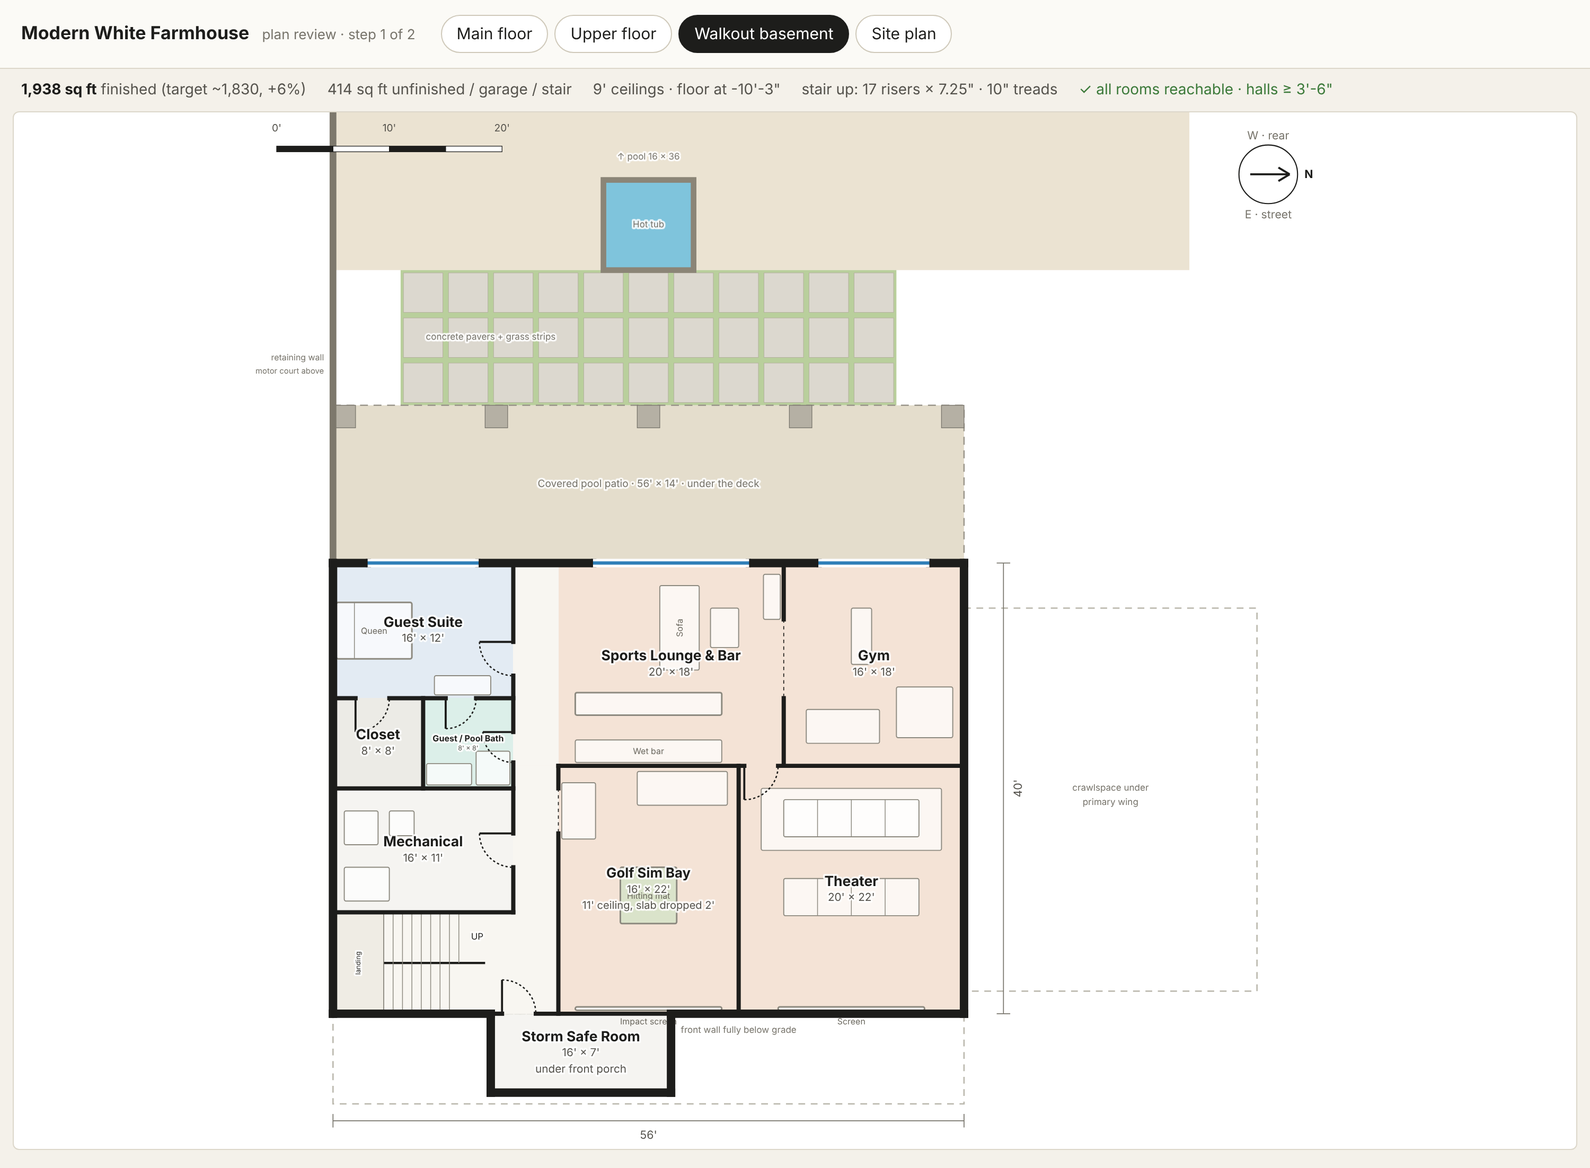
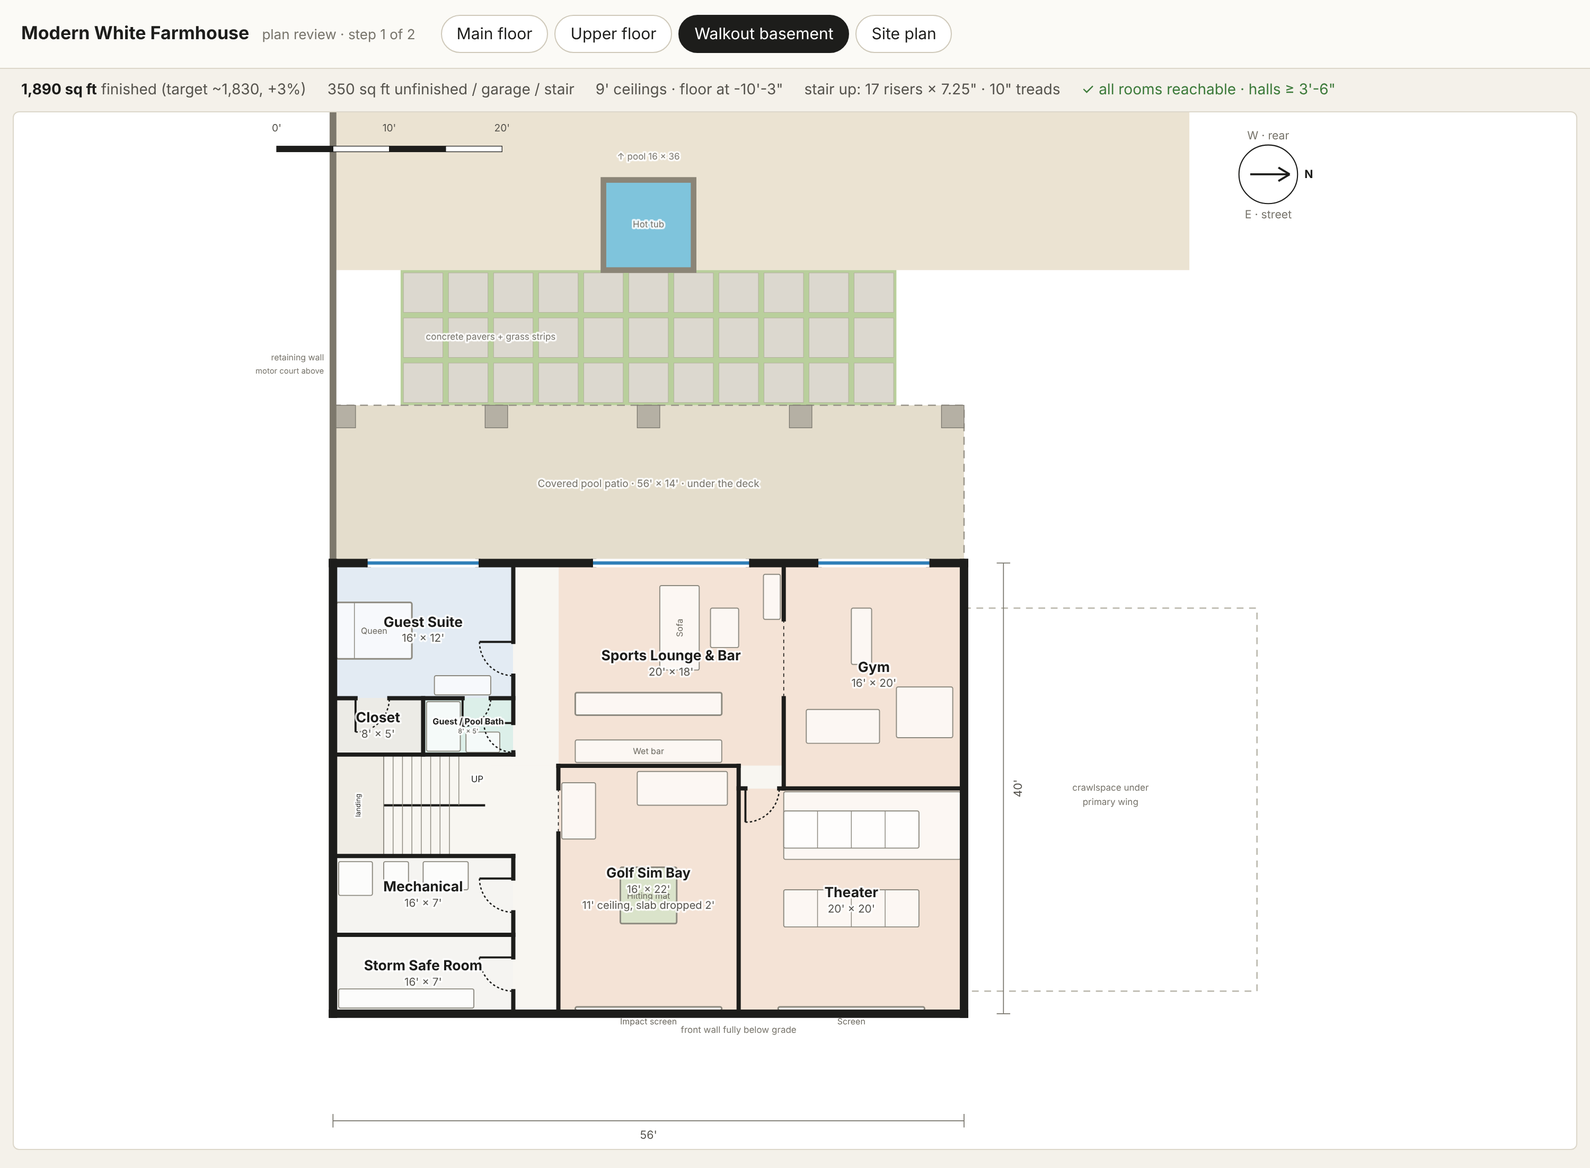
Revise layout: wing closet + entry hall, kitchen coffee station, office/stair swap
- Primary wing: remove coffee/sitting room; 4 ft entry hall, 14 x 14 walk-in
  closet with raised double-hang rods (46 in / 92 in), bath grows to 10 x 20,
  laundry 12 x 14.
- Kitchen: 6 ft built-in coffee station on the pantry wall; pantry door moves
  to the back hall.
- Office moves to the front-left corner with front and side windows, one desk
  facing each; stairs move to y 17-26 on all three floors.
- Upstairs: shared bath opens to bedroom 1 and the hall; bedroom 2 moves to
  the front-left corner.
- Basement: theater 20 x 20, storm safe room back inside next to mechanical.

Claude-Session: https://claude.ai/code/session_01XD9YHSFEoQqE2SWjbwMSnV

diff --git a/house-model/src/config/house.js b/house-model/src/config/house.js
@@ -57,7 +57,7 @@ export const build = {
 // Floor-to-floor heights are whole numbers of risers, so the floor elevations
 // below are derived from the riser count.
 export const stair = {
-  x: 0, y: 31, w: 14, d: 9,    // box: flights run along x, side by side in y
+  x: 0, y: 17, w: 14, d: 9,    // box: flights run along x, side by side in y
   landingAt: 'x0',             // mid landing against the left exterior wall
   landing: 4.5,                // landing depth (= flight width)
   riser: 7.25 / 12,            // 7-1/4"
@@ -87,7 +87,7 @@ export const floors = {
       { id: 'mudroom',  name: 'Mudroom',       use: 'service', x: 0,  y: 0,  w: 10, d: 11 },
       { id: 'pantry',   name: 'Walk-in Pantry', use: 'service', x: 10, y: 0, w: 8,  d: 11 },
       { id: 'halfBath', name: 'Half Bath',     use: 'bath',    x: 0,  y: 11, w: 6,  d: 6 },
-      { id: 'office',   name: 'Shared Office', use: 'work',    x: 0,  y: 17, w: 18, d: 14 },
+      { id: 'office',   name: 'Shared Office', use: 'work',    x: 0,  y: 26, w: 18, d: 14 },
       { ...STAIR_BOX },
       // — center: kitchen, vaulted living, foyer (centered on the 56' block) —
       { id: 'kitchen', name: 'Kitchen',     use: 'living', x: 18, y: 0,  w: 20, d: 15 },
@@ -102,11 +102,11 @@ export const floors = {
       { id: 'den',    name: 'TV Den',       use: 'living', x: 42, y: 26, w: 14, d: 14 },
       // — primary wing —
       { id: 'primaryBed',    name: 'Primary Bedroom', use: 'bed',     x: 56, y: 4,  w: 16, d: 16 },
-      { id: 'primaryBath',   name: 'Primary Bath',    use: 'bath',    x: 72, y: 4,  w: 10, d: 14 },
-      { id: 'primaryCloset', name: 'Primary Closet',  use: 'service', x: 72, y: 18, w: 10, d: 9 },
-      { id: 'laundry',       name: 'Laundry',         use: 'service', x: 72, y: 27, w: 10, d: 11 },
-      { id: 'coffee',        name: 'Coffee Bar / Sitting', use: 'living', x: 56, y: 24, w: 16, d: 14,
-        note: 'entry to the wing' },
+      { id: 'primaryBath',   name: 'Primary Bath',    use: 'bath',    x: 72, y: 4,  w: 10, d: 20 },
+      { id: 'primaryCloset', name: 'Primary Closet',  use: 'service', x: 68, y: 24, w: 14, d: 14,
+        note: 'double hang, raised rods' },
+      { id: 'laundry',       name: 'Laundry',         use: 'service', x: 56, y: 24, w: 12, d: 14 },
+      // the 4 ft wing entry hall (x 56–72, y 20–24) is the auto-generated hallway
       // — 3-car garage (slab 1 ft below main floor) —
       { id: 'garage', name: '3-Car Garage', use: 'garage', x: -52, y: -7, w: 36, d: 24,
         floorOffset: -1, finished: false },
@@ -114,7 +114,7 @@ export const floors = {
     openPlan: [
       ['kitchen', 'dining'], ['kitchen', 'living'], ['kitchen', '_hall'],
       ['dining', '_hall'], ['living', 'foyer'], ['foyer', '_hall'],
-      ['living', '_hall'], ['coffee', '_hall'], ['stair', '_hall'],
+      ['living', '_hall'], ['stair', '_hall'],
     ],
     // Extra walls where two open-plan spaces still need a solid stretch:
     // the stone fireplace wall between the living room and the side gallery.
@@ -130,22 +130,22 @@ export const floors = {
       { kind: 'window',      on: 'y', at: 4, from: 75, to: 79, sill: 5 },
       // front wall (y = 40 main block, y = 38 wing)
       { kind: 'entry',  on: 'y', at: 40, from: 25, to: 31 },
-      { kind: 'window', on: 'y', at: 40, from: 4,  to: 10 },                  // stair
+      { kind: 'window', on: 'y', at: 40, from: 4,  to: 10 },                  // office → porch
       { kind: 'window', on: 'y', at: 40, from: 39, to: 41, sill: 4 },         // gallery end
       { kind: 'window', on: 'y', at: 40, from: 45, to: 53 },                  // den → porch
-      { kind: 'window', on: 'y', at: 38, from: 59, to: 69 },
-      { kind: 'window', on: 'y', at: 38, from: 75, to: 79, sill: 4 },
+      { kind: 'window', on: 'y', at: 38, from: 59, to: 65 },                  // laundry
+      { kind: 'window', on: 'y', at: 38, from: 73, to: 77, sill: 6 },         // closet, high
       // side walls (x = 0 is covered by the breezeway from y = 1 to 17)
       { kind: 'door',   on: 'x', at: 0,  from: 3,  to: 6 },                   // mudroom ↔ breezeway
-      { kind: 'window', on: 'x', at: 0,  from: 21, to: 27 },                  // office
-      { kind: 'window', on: 'x', at: 0,  from: 33, to: 38, sill: 5 },         // stair landing
+      { kind: 'window', on: 'x', at: 0,  from: 19.5, to: 23.5, sill: 5 },     // stair landing
+      { kind: 'window', on: 'x', at: 0,  from: 29, to: 35 },                  // office side
       { kind: 'window', on: 'x', at: 82, from: 7,  to: 11, sill: 5 },
-      { kind: 'window', on: 'x', at: 82, from: 30, to: 34, sill: 4 },
+      { kind: 'window', on: 'x', at: 82, from: 16, to: 20, sill: 5 },
       // interior — left
       { kind: 'door',    on: 'y', at: 11, from: 6.5,  to: 9.5 },              // mudroom → back hall
-      { kind: 'door',    on: 'x', at: 18, from: 4,    to: 7, swing: -1 },     // pantry → kitchen
+      { kind: 'door',    on: 'y', at: 11, from: 13,   to: 16 },               // pantry → back hall
       { kind: 'door',    on: 'x', at: 6,  from: 12.5, to: 15, swing: -1 },    // half bath
-      { kind: 'door',    on: 'y', at: 31, from: 14.5, to: 17.5, swing: -1 },  // office → stair hall
+      { kind: 'door',    on: 'x', at: 18, from: 33,   to: 36, swing: -1 },    // office → foyer hall
       // interior — right
       { kind: 'door',    on: 'x', at: 34, from: 34,   to: 37 },               // coat closet
       { kind: 'door',    on: 'y', at: 20, from: 46,   to: 48.7 },             // powder
@@ -153,9 +153,9 @@ export const floors = {
       // interior — primary wing
       { kind: 'door', on: 'y', at: 20, from: 58, to: 61, swing: -1 },         // bedroom
       { kind: 'door', on: 'x', at: 72, from: 6,  to: 9 },                     // bed → bath
-      { kind: 'door', on: 'y', at: 18, from: 75, to: 78 },                    // bath → closet
-      { kind: 'door', on: 'y', at: 27, from: 75, to: 78 },                    // closet → laundry
-      { kind: 'door', on: 'x', at: 72, from: 30, to: 33 },                    // nook → laundry
+      { kind: 'door', on: 'y', at: 24, from: 75, to: 78 },                    // bath → closet
+      { kind: 'door', on: 'x', at: 68, from: 30, to: 33, swing: -1 },         // closet → laundry
+      { kind: 'door', on: 'y', at: 24, from: 59, to: 62 },                    // hall → laundry
       // garage — overhead doors face the rear motor court
       { kind: 'garage', on: 'y', at: -7, from: -50, to: -41 },
       { kind: 'garage', on: 'y', at: -7, from: -39, to: -30 },
@@ -168,7 +168,8 @@ export const floors = {
     furniture: [
       // kitchen
       { type: 'counter', x: 20,   y: 0.3, w: 16,  d: 2,   h: 3 },             // under pass-through
-      { type: 'tall',    x: 18.3, y: 8,   w: 2.4, d: 6,   h: 7.5 },           // fridge + ovens
+      { type: 'counter', x: 18.3, y: 1,   w: 2,   d: 6,   h: 3, label: 'Coffee station' }, // 6 ft built-in, pantry wall
+      { type: 'tall',    x: 18.3, y: 7.5, w: 2.4, d: 3.5, h: 7.5 },           // fridge
       { type: 'island',  x: 22,   y: 7,   w: 12,  d: 4,   h: 3, label: 'Island' },
       // dining
       { type: 'table', x: 42.5, y: 5, w: 9, d: 3.5, h: 2.5, chairs: 8, label: 'Table' },
@@ -180,12 +181,12 @@ export const floors = {
       { type: 'chair', x: 31,   y: 27, w: 3,   d: 3, h: 2.7 },
       // foyer
       { type: 'table', x: 22.4, y: 33, w: 1.4, d: 5, h: 2.8 },
-      // office — two desks facing the side window
-      { type: 'desk',  x: 0.5, y: 19.5, w: 2.5, d: 5.5, h: 2.5 },
-      { type: 'desk',  x: 0.5, y: 25,   w: 2.5, d: 5.5, h: 2.5 },
-      { type: 'chair', x: 3.5, y: 21,   w: 2,   d: 2,   h: 3 },
-      { type: 'chair', x: 3.5, y: 27,   w: 2,   d: 2,   h: 3 },
-      { type: 'tall',  x: 8,   y: 17.3, w: 9.5, d: 1.2, h: 7 },
+      // office — each desk faces its own window (front wall and left side wall)
+      { type: 'desk',  x: 4,   y: 37.2, w: 6,   d: 2.5, h: 2.5 },
+      { type: 'chair', x: 6,   y: 34.6, w: 2,   d: 2,   h: 3 },
+      { type: 'desk',  x: 0.5, y: 29,   w: 2.5, d: 6,   h: 2.5 },
+      { type: 'chair', x: 3.4, y: 31,   w: 2,   d: 2,   h: 3 },
+      { type: 'tall',  x: 7,   y: 26.3, w: 9,   d: 1.2, h: 7 },
       // mudroom / pantry / half bath
       { type: 'tall',    x: 8.4,  y: 0.5,  w: 1.5, d: 9.5, h: 7 },             // lockers
       { type: 'bench',   x: 0.3,  y: 6.5,  w: 1.5, d: 3.5, h: 1.5 },
@@ -209,15 +210,16 @@ export const floors = {
       { type: 'chair',   x: 68,   y: 6,    w: 3,   d: 3,   h: 2.7 },
       { type: 'counter', x: 74,   y: 4.3,  w: 7,   d: 2,   h: 3 },             // double vanity
       { type: 'tub',     x: 78.8, y: 8.5,  w: 2.9, d: 5.5, h: 2 },
-      { type: 'shower',  x: 72.3, y: 13,   w: 4.5, d: 4.7, h: 7.5 },
-      { type: 'toilet',  x: 79.5, y: 15.3, w: 2.3, d: 1.7, h: 1.4 },
-      { type: 'island',  x: 75.5, y: 20.5, w: 3,   d: 4,   h: 3 },
-      { type: 'tall',    x: 80,   y: 18.3, w: 1.7, d: 8.4, h: 7 },
-      { type: 'appliance', x: 74, y: 35.2, w: 5.4, d: 2.5, h: 3.3 },           // washer / dryer
-      { type: 'counter',   x: 79.7, y: 28, w: 2,   d: 6,   h: 3 },
-      { type: 'counter', x: 56.3, y: 28, w: 2,   d: 8,   h: 3, label: 'Coffee bar' },
-      { type: 'chair',   x: 63,   y: 31, w: 3,   d: 3,   h: 2.7 },
-      { type: 'chair',   x: 67.5, y: 31, w: 3,   d: 3,   h: 2.7 },
+      { type: 'shower',  x: 72.3, y: 16,   w: 5,   d: 5,   h: 7.5 },
+      { type: 'toilet',  x: 79.5, y: 21.6, w: 2.3, d: 1.7, h: 1.4 },
+      { type: 'counter', x: 79.9, y: 15,   w: 1.8, d: 4,   h: 2.5 },           // makeup vanity
+      // primary closet — double hanging on both long walls, rods raised for tall owners
+      { type: 'hanging', x: 68.3, y: 26,   w: 2, d: 11.7, h: 9, rods: [46 / 12, 92 / 12], label: 'Double hang' },
+      { type: 'hanging', x: 79.7, y: 26,   w: 2, d: 11.7, h: 9, rods: [46 / 12, 92 / 12], label: 'Double hang' },
+      { type: 'island',  x: 73.5, y: 29,   w: 3, d: 5,    h: 3 },
+      { type: 'appliance', x: 57,   y: 35.2, w: 5.4, d: 2.5, h: 3.3 },         // washer / dryer
+      { type: 'counter',   x: 62.8, y: 35.7, w: 4.8, d: 2,   h: 3 },           // sink + folding
+      { type: 'tall',      x: 56.3, y: 26,   w: 1.7, d: 7,   h: 7 },
       // garage — three cars for scale
       { type: 'car', x: -48.5, y: -3, w: 6, d: 16, h: 5 },
       { type: 'car', x: -37.5, y: -3, w: 6, d: 16, h: 5 },
@@ -234,9 +236,10 @@ export const floors = {
     rooms: [
       // — left: two kids' bedrooms sharing a Jack & Jill bath —
       { id: 'bed1',   name: 'Bedroom 1', use: 'bed',  x: 0,  y: 0,  w: 18, d: 12, note: 'incl. closet' },
-      { id: 'jjBath', name: 'Jack & Jill Bath', use: 'bath', x: 0, y: 12, w: 12, d: 6 },
-      { id: 'linen',  name: 'Linen',     use: 'service', x: 12, y: 12, w: 6, d: 6 },
-      { id: 'bed2',   name: 'Bedroom 2', use: 'bed',  x: 0,  y: 18, w: 18, d: 13, note: 'incl. closet' },
+      // the stairs now sit between bedrooms 1 and 2, so the shared bath opens
+      // to bedroom 1 and to the hall (no longer a true Jack & Jill)
+      { id: 'jjBath', name: 'Shared Bath', use: 'bath', x: 0, y: 12, w: 14, d: 5 },
+      { id: 'bed2',   name: 'Bedroom 2', use: 'bed',  x: 0,  y: 26, w: 18, d: 14, note: 'incl. closet' },
       { ...STAIR_BOX, finished: false },
       // — center: loft at the rear, open to the living room and foyer below —
       { id: 'loft',       name: "Kids' Loft",          use: 'living', x: 18, y: 0,  w: 20, d: 15 },
@@ -260,10 +263,9 @@ export const floors = {
       { kind: 'railing', on: 'x', at: 34, from: 31, to: 40 },
       // doors — left
       { kind: 'door', on: 'x', at: 18, from: 7,  to: 10, swing: -1 },        // bed 1
-      { kind: 'door', on: 'y', at: 12, from: 3,  to: 5.5, swing: -1 },       // bed 1 → J&J
-      { kind: 'door', on: 'y', at: 18, from: 3,  to: 5.5 },                  // bed 2 → J&J
-      { kind: 'door', on: 'x', at: 18, from: 13, to: 15, swing: -1 },        // linen
-      { kind: 'door', on: 'x', at: 18, from: 26, to: 29, swing: -1 },        // bed 2
+      { kind: 'door', on: 'y', at: 12, from: 3,  to: 5.5, swing: -1 },       // bed 1 → shared bath
+      { kind: 'door', on: 'x', at: 14, from: 12.3, to: 14.8 },               // hall → shared bath
+      { kind: 'door', on: 'x', at: 18, from: 27, to: 30, swing: -1 },        // bed 2
       // doors — right
       { kind: 'door', on: 'x', at: 42, from: 8,    to: 11 },                 // bed 3
       { kind: 'door', on: 'x', at: 42, from: 15,   to: 17.7 },               // bath 2
@@ -276,28 +278,30 @@ export const floors = {
       { kind: 'window', on: 'y', at: 0, from: 22, to: 34, sill: 1.5 },        // rear gable glass
       { kind: 'window', on: 'y', at: 0, from: 46, to: 52 },
       // windows — front
-      { kind: 'window', on: 'y', at: 40, from: 4,  to: 10 },                  // stair
+      { kind: 'window', on: 'y', at: 40, from: 4,  to: 10 },                  // bedroom 2
       { kind: 'window', on: 'y', at: 40, from: 24, to: 32, sill: 1.5 },       // front gable glass
       { kind: 'window', on: 'y', at: 40, from: 47, to: 51, sill: 4 },
       // windows — sides
       { kind: 'window', on: 'x', at: 0,  from: 3,  to: 8 },
       { kind: 'window', on: 'x', at: 0,  from: 14, to: 16, sill: 4.5 },
-      { kind: 'window', on: 'x', at: 0,  from: 22, to: 27 },
+      { kind: 'window', on: 'x', at: 0,  from: 19.5, to: 23.5, sill: 5 },   // stair
+      { kind: 'window', on: 'x', at: 0,  from: 30, to: 35 },
       { kind: 'window', on: 'x', at: 56, from: 4,  to: 9 },
     ],
     furniture: [
       { type: 'bed',  x: 0.3,  y: 3.5,  w: 6.7, d: 5,   h: 2.2, label: 'Queen' },
       { type: 'desk', x: 9,    y: 0.3,  w: 5,   d: 2,   h: 2.5 },
       { type: 'tall', x: 15.8, y: 0.3,  w: 1.9, d: 6,   h: 7 },
-      { type: 'bed',  x: 0.3,  y: 22.5, w: 6.7, d: 5,   h: 2.2, label: 'Queen' },
-      { type: 'desk', x: 6,    y: 28.7, w: 5,   d: 2,   h: 2.5 },
-      { type: 'tall', x: 15.8, y: 18.5, w: 1.9, d: 6,   h: 7 },
+      { type: 'bed',  x: 0.3,  y: 30,   w: 6.7, d: 5,   h: 2.2, label: 'Queen' },
+      { type: 'desk', x: 11,   y: 37.7, w: 5,   d: 2,   h: 2.5 },
+      { type: 'tall', x: 15.8, y: 31,   w: 1.9, d: 6,   h: 7 },
       { type: 'bed',  x: 49,   y: 3,    w: 6.7, d: 5,   h: 2.2, label: 'Queen' },
       { type: 'desk', x: 43,   y: 0.3,  w: 5,   d: 2,   h: 2.5 },
       { type: 'sofa',  x: 24, y: 9.5, w: 8, d: 3.2, h: 2.8, faces: '-y', label: 'Sofa' },
       { type: 'table', x: 26, y: 5,   w: 4, d: 2.5, h: 1.4 },
-      { type: 'tub',     x: 0.3,  y: 12.3, w: 5.2, d: 2.7, h: 1.8 },
-      { type: 'counter', x: 6,    y: 15.8, w: 5.5, d: 1.9, h: 3 },
+      { type: 'tub',     x: 0.3,  y: 12.2, w: 2.6, d: 4.6, h: 1.8 },
+      { type: 'counter', x: 6,    y: 14.8, w: 5,   d: 1.9, h: 3 },
+      { type: 'toilet',  x: 11.5, y: 12.3, w: 1.7, d: 2.3, h: 1.4 },
       { type: 'tub',     x: 46.5, y: 18,   w: 5.2, d: 2.7, h: 1.8 },
       { type: 'counter', x: 45.5, y: 13.3, w: 5,   d: 1.9, h: 3 },
       { type: 'appliance', x: 44.5, y: 24.3, w: 5, d: 2.5, h: 3.3 },
@@ -313,18 +317,16 @@ export const floors = {
     rooms: [
       // rear (y = 0) walks out to the covered patio; front (y = 40) is below grade
       { id: 'guest',      name: 'Guest Suite',  use: 'bed',     x: 0,  y: 0,  w: 16, d: 12 },
-      { id: 'guestCloset',name: 'Closet',       use: 'service', x: 0,  y: 12, w: 8,  d: 8 },
-      { id: 'guestBath',  name: 'Guest / Pool Bath', use: 'bath', x: 8, y: 12, w: 8,  d: 8 },
-      { id: 'mechanical', name: 'Mechanical',   use: 'service', x: 0,  y: 20, w: 16, d: 11, finished: false },
+      { id: 'guestCloset',name: 'Closet',       use: 'service', x: 0,  y: 12, w: 8,  d: 5 },
+      { id: 'guestBath',  name: 'Guest / Pool Bath', use: 'bath', x: 8, y: 12, w: 8,  d: 5 },
+      { id: 'mechanical', name: 'Mechanical',   use: 'service', x: 0,  y: 26, w: 16, d: 7, finished: false },
+      { id: 'safe',       name: 'Storm Safe Room', use: 'service', x: 0, y: 33, w: 16, d: 7, finished: false },
       { ...STAIR_BOX, finished: false },
       { id: 'lounge',  name: 'Sports Lounge & Bar', use: 'rec', x: 20, y: 0,  w: 20, d: 18 },
-      { id: 'gym',     name: 'Gym',            use: 'rec',  x: 40, y: 0,  w: 16, d: 18 },
+      { id: 'gym',     name: 'Gym',            use: 'rec',  x: 40, y: 0,  w: 16, d: 20 },
       { id: 'sim',     name: 'Golf Sim Bay',   use: 'rec',  x: 20, y: 18, w: 16, d: 22,
         floorOffset: -2, ceiling: 11, note: "11' ceiling, slab dropped 2'" },
-      { id: 'theater', name: 'Theater',        use: 'rec',  x: 36, y: 18, w: 20, d: 22 },
-      // storm safe room: concrete room under the front porch slab
-      { id: 'safe', name: 'Storm Safe Room', use: 'service', x: 14, y: 40, w: 16, d: 7,
-        finished: false, note: 'under front porch' },
+      { id: 'theater', name: 'Theater',        use: 'rec',  x: 36, y: 20, w: 20, d: 20 },
     ],
     openPlan: [['lounge', '_hall'], ['stair', '_hall']],
     openings: [
@@ -334,22 +336,22 @@ export const floors = {
       { kind: 'glassdoor', on: 'y', at: 0, from: 43, to: 53 },
       // hall doors
       { kind: 'door',    on: 'x', at: 16, from: 7,    to: 10, swing: -1 },    // guest suite
-      { kind: 'door',    on: 'x', at: 16, from: 15,   to: 17.7, swing: -1 },  // guest / pool bath
-      { kind: 'door',    on: 'x', at: 16, from: 24,   to: 27, swing: -1 },    // mechanical
+      { kind: 'door',    on: 'x', at: 16, from: 14.2, to: 16.8, swing: -1 },  // guest / pool bath
+      { kind: 'door',    on: 'x', at: 16, from: 28,   to: 31, swing: -1 },    // mechanical
+      { kind: 'door',    on: 'x', at: 16, from: 35,   to: 38, swing: -1 },    // safe room (steel)
       { kind: 'opening', on: 'x', at: 20, from: 20,   to: 24 },               // sim bay (steps down)
-      { kind: 'door',    on: 'y', at: 40, from: 15,   to: 18, swing: -1 },    // safe room (steel)
       // suite and lounge doors
       { kind: 'door',    on: 'y', at: 12, from: 2,    to: 5 },                // guest closet
-      { kind: 'door',    on: 'y', at: 12, from: 10,   to: 12.7 },             // guest → bath
+      { kind: 'door',    on: 'y', at: 12, from: 11.5, to: 14 },               // guest → bath
       { kind: 'opening', on: 'x', at: 40, from: 5,    to: 12 },               // gym
-      { kind: 'door',    on: 'y', at: 18, from: 36.5, to: 39.5 },             // theater
+      { kind: 'door',    on: 'y', at: 20, from: 36.6, to: 39.6 },             // theater (from lounge alcove)
     ],
     furniture: [
       // theater — screen on the buried front wall, two rows of four recliners
       { type: 'screen',   x: 39.5, y: 39.4, w: 13, d: 0.3, h: 7.3, elev: 1.5, label: 'Screen' },
-      { type: 'recliner', x: 40,   y: 28,   w: 12, d: 3.3, h: 3.3, seats: 4, faces: '+y' },
-      { type: 'platform', x: 38,   y: 20,   w: 16, d: 5.5, h: 1 },
-      { type: 'recliner', x: 40,   y: 21,   w: 12, d: 3.3, h: 3.3, seats: 4, faces: '+y', elev: 1 },
+      { type: 'recliner', x: 40,   y: 29,   w: 12, d: 3.3, h: 3.3, seats: 4, faces: '+y' },
+      { type: 'platform', x: 40,   y: 20.3, w: 15.7, d: 6, h: 1 },
+      { type: 'recliner', x: 40,   y: 22,   w: 12, d: 3.3, h: 3.3, seats: 4, faces: '+y', elev: 1 },
       // golf sim — hitting toward the front wall
       { type: 'screen', x: 21.5, y: 39.4, w: 13, d: 0.3, h: 9.5, elev: 0.5, label: 'Impact screen' },
       { type: 'mat',    x: 25.5, y: 27,   w: 5,  d: 5,   h: 0.15, label: 'Hitting mat' },
@@ -368,12 +370,13 @@ export const floors = {
       // guest suite
       { type: 'bed',     x: 0.3, y: 3.5,  w: 6.7, d: 5,   h: 2.2, label: 'Queen' },
       { type: 'dresser', x: 9,   y: 10,   w: 5,   d: 1.7, h: 3 },
-      { type: 'shower',  x: 12.7, y: 16.7, w: 3,  d: 3,   h: 7.5 },
-      { type: 'counter', x: 8.3, y: 17.8, w: 4,   d: 1.9, h: 3 },
+      { type: 'shower',  x: 8.3,  y: 12.3, w: 3,   d: 4.4, h: 7.5 },
+      { type: 'counter', x: 11.8, y: 15,   w: 3,   d: 1.8, h: 3 },
       // mechanical
-      { type: 'appliance', x: 1, y: 22, w: 3,   d: 3,   h: 6 },
-      { type: 'appliance', x: 5, y: 22, w: 2.2, d: 2.2, h: 5.5 },
-      { type: 'appliance', x: 1, y: 27, w: 4,   d: 3,   h: 5 },
+      { type: 'appliance', x: 0.5, y: 26.5, w: 3,   d: 3,   h: 6 },
+      { type: 'appliance', x: 4.5, y: 26.5, w: 2.2, d: 2.2, h: 5.5 },
+      { type: 'appliance', x: 8,   y: 26.5, w: 4,   d: 2.5, h: 5 },
+      { type: 'bench',     x: 0.5, y: 37.8, w: 12,  d: 1.7, h: 1.5 },          // safe-room bench
     ],
   },
 };

diff --git a/house-model/src/plan/plan2d.js b/house-model/src/plan/plan2d.js
@@ -126,7 +126,7 @@ function drawStair(r, levelKey) {
 function drawFurniture(list = [], rooms = []) {
   let s = '';
   for (const f of list) {
-    const strong = ['screen', 'mat', 'island', 'bed', 'car'].includes(f.type);
+    const strong = ['screen', 'mat', 'island', 'bed', 'car', 'hanging'].includes(f.type);
     s += rect(f.x, f.y, f.w, f.d,
       `fill="${f.type === 'mat' ? '#cfe3c4' : '#ffffff'}" fill-opacity="0.7" stroke="${FURN}" stroke-width="${strong ? 0.14 : 0.09}" rx="0.15"`);
     if (f.type === 'bed') {
@@ -140,6 +140,12 @@ function drawFurniture(list = [], rooms = []) {
       } else {
         const yy = Math.abs(f.y - r.y) < Math.abs(r.y + r.d - f.y - f.d) ? f.y + 1.6 : f.y + f.d - 1.6;
         s += line(f.x, yy, f.x + f.w, yy, st);
+      }
+    }
+    if (f.rods) {
+      const st = `stroke="${FURN}" stroke-width="0.06" stroke-dasharray="0.3 0.2"`;
+      for (const k of [0.35, 0.65]) {
+        s += f.d > f.w ? line(f.x + f.w * k, f.y, f.x + f.w * k, f.y + f.d, st) : line(f.x, f.y + f.d * k, f.x + f.w, f.y + f.d * k, st);
       }
     }
     if (f.seats) {
@@ -338,7 +344,6 @@ export function floorPlanSVG(key) {
     s += note(36, 41.5, 'front wall fully below grade', 0.8);
     s += note(69, 20, 'crawlspace under', 0.8);
     s += note(69, 21.3, 'primary wing', 0.8);
-    s += rect(porch.x, porch.y, porch.w, porch.d, `fill="none" stroke="#b9b6ab" stroke-width="0.12" stroke-dasharray="0.6 0.5"`);
   }
 
   // room fills
